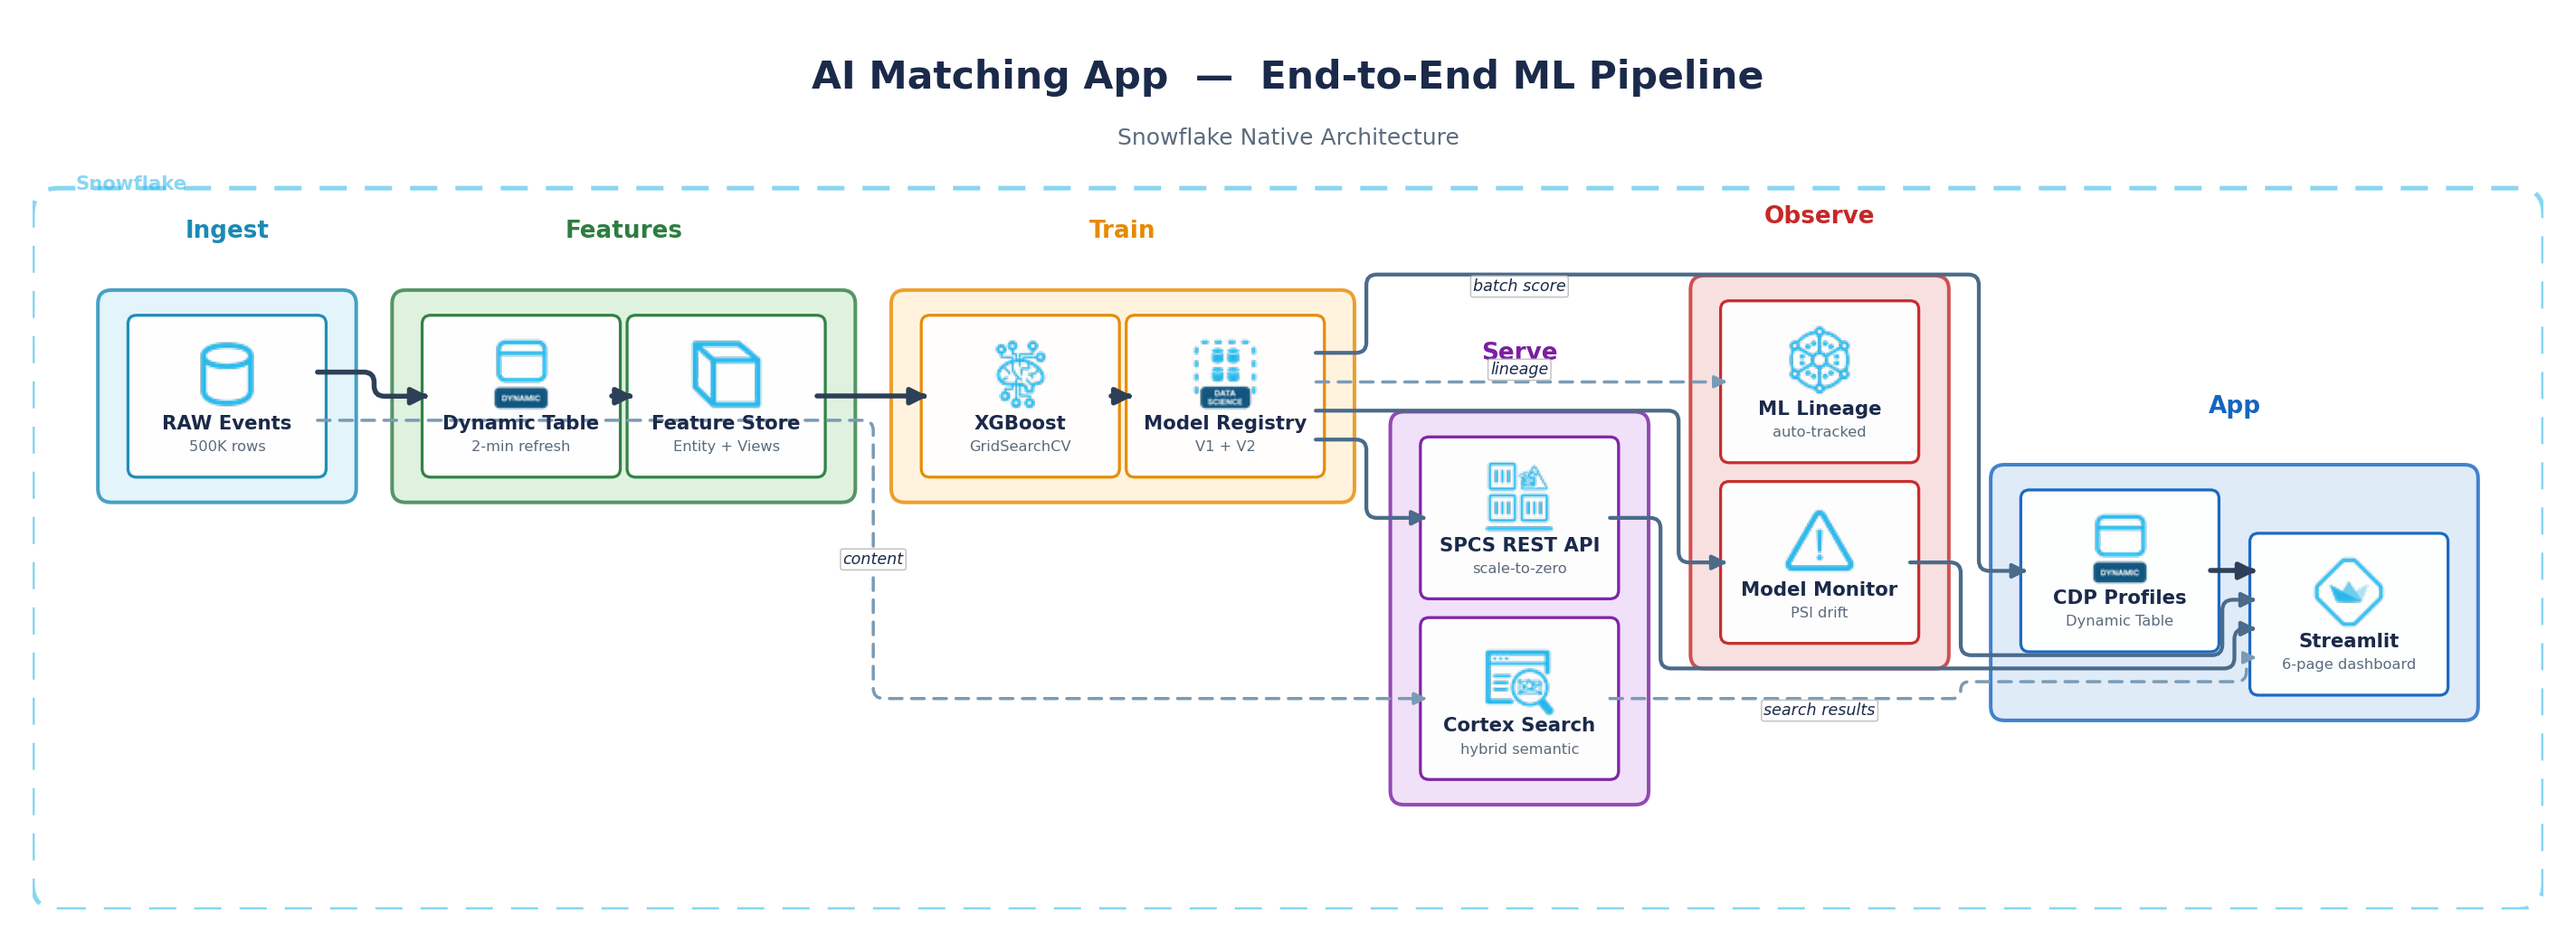
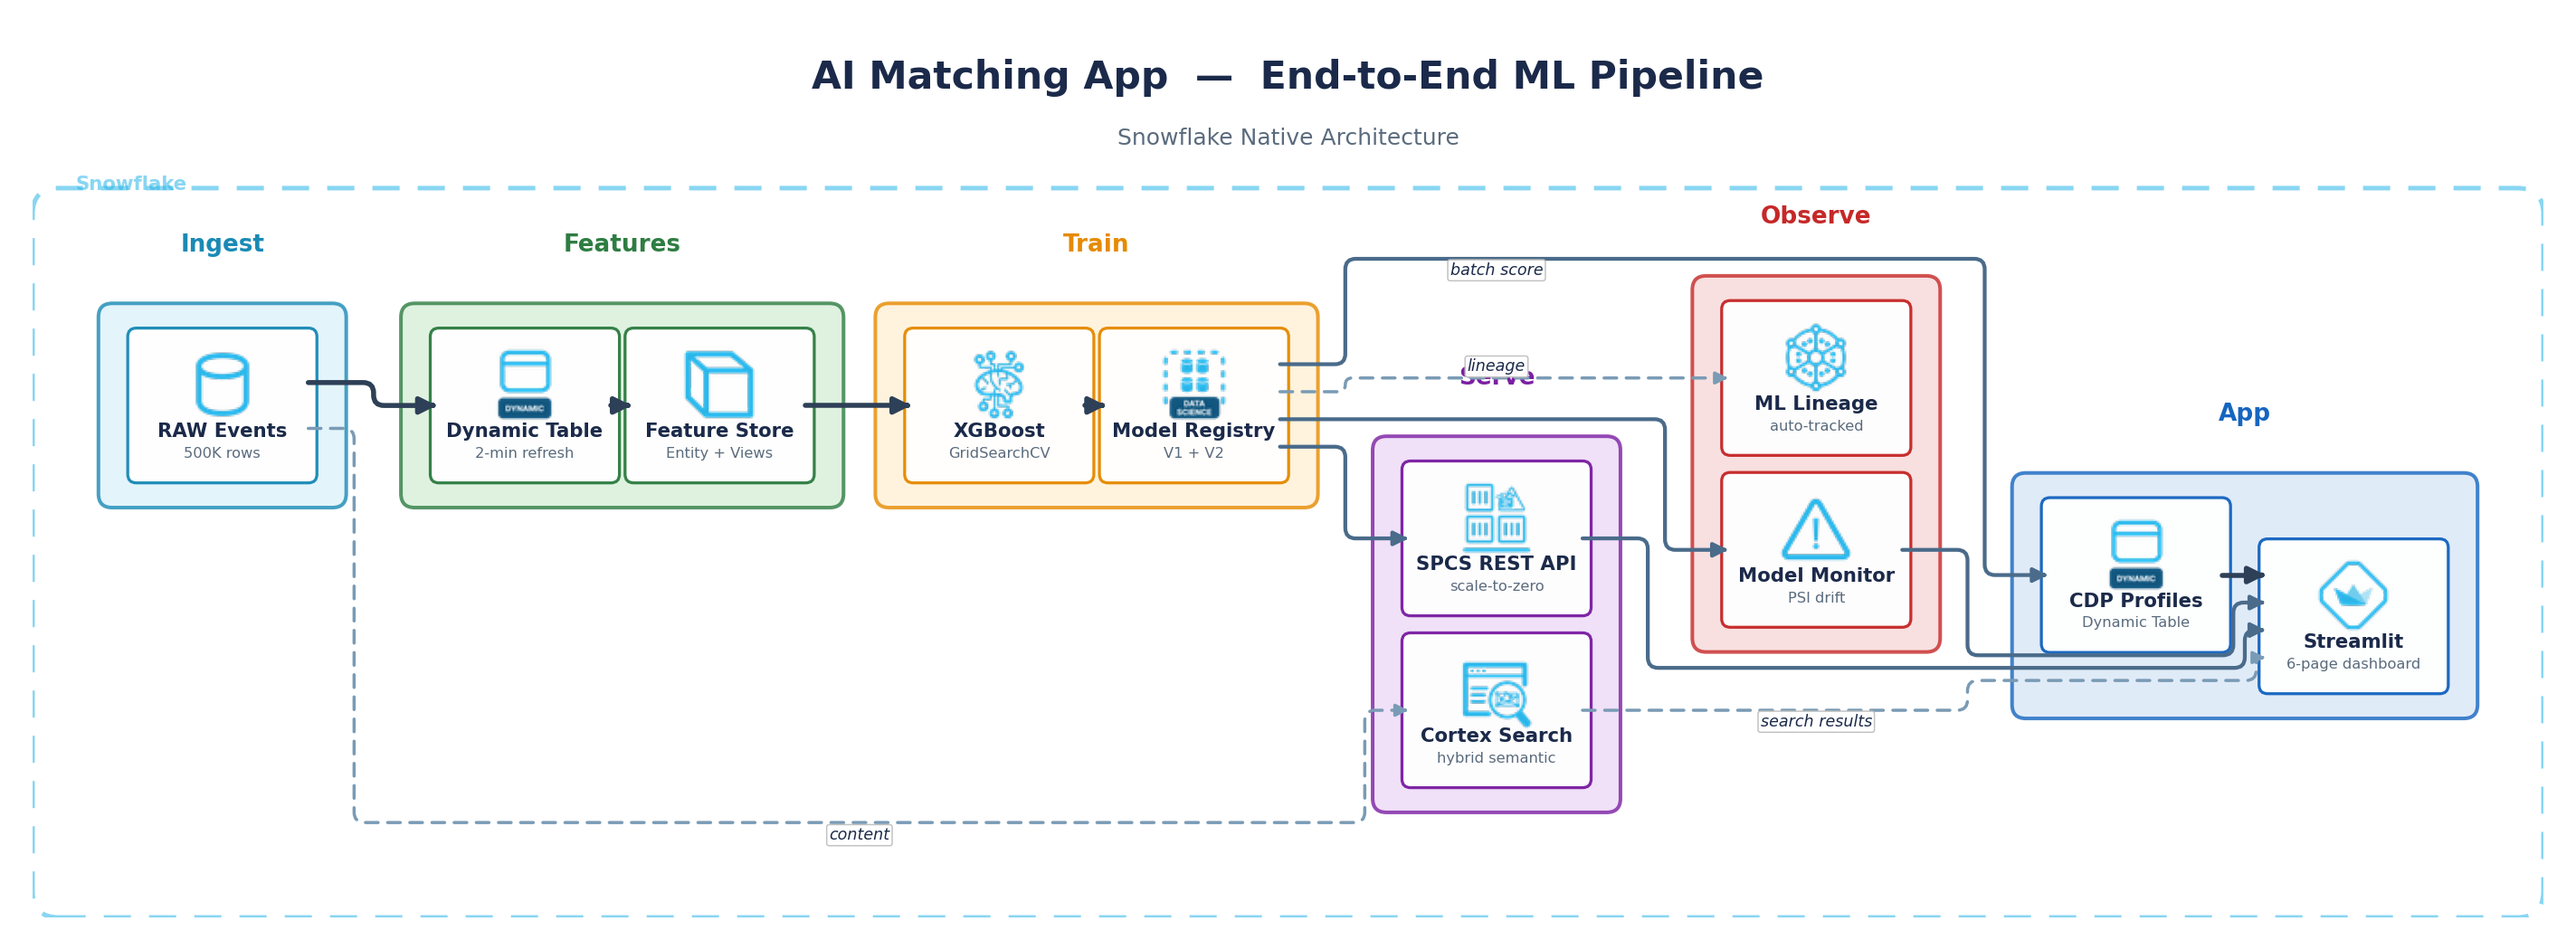
fix(diagram): route long-span edges below groups and increase edge spacing
Fixes two edge routing issues: (1) RAW Events→Cortex Search dashed edge
no longer crosses intermediate nodes — long-span edges are now routed
below all groups via a 4-bend-point path. (2) Increased ELK spacing
parameters (edgeNode: 35, edgeNodeBetweenLayers: 40) for better
edge-to-boundary clearance on batch score and SPCS/Monitor edges.

.... Generated with [Cortex Code](https://docs.snowflake.com/en/user-guide/cortex-code/cortex-code)

diff --git a/site/sfguides/src/build-an-ai-matching-app-with-snowflake-ml/assets/generate_arch_diagram.py b/site/sfguides/src/build-an-ai-matching-app-with-snowflake-ml/assets/generate_arch_diagram.py
@@ -1,7 +1,7 @@
 #!/usr/bin/env python3
 """
 Generate architecture diagram using ELK for layout + matplotlib for rendering.
-v14 — ELK-based orthogonal routing with Snowflake-branded visual style.
+v15 — Fix edge crossing and edge-boundary spacing issues.
 
 Pipeline:  Graph spec → ELK (Node.js) → positioned JSON → matplotlib PNG
 """
@@ -152,9 +152,9 @@ def build_elk_graph():
             'elk.layered.spacing.nodeNodeBetweenLayers': '60',
             'elk.spacing.nodeNode': '30',
             'elk.layered.spacing.edgeEdgeBetweenLayers': '15',
-            'elk.layered.spacing.edgeNodeBetweenLayers': '25',
-            'elk.spacing.edgeNode': '20',
-            'elk.spacing.edgeEdge': '12',
+            'elk.layered.spacing.edgeNodeBetweenLayers': '40',
+            'elk.spacing.edgeNode': '35',
+            'elk.spacing.edgeEdge': '15',
             'elk.layered.nodePlacement.strategy': 'NETWORK_SIMPLEX',
             'elk.layered.crossingMinimization.strategy': 'LAYER_SWEEP',
             'elk.layered.crossingMinimization.semiInteractive': 'true',
@@ -432,6 +432,14 @@ def main():
 
             col0_node_ids = {ch['id'] for ch in col0_group.get('children', [])}
 
+            # Find the bottom Y of all groups (for routing long-span edges below)
+            max_group_bottom = 0
+            for grp in layouted['children']:
+                bottom = grp.get('y', 0) + grp.get('height', 0)
+                if bottom > max_group_bottom:
+                    max_group_bottom = bottom
+            below_y = max_group_bottom + 30  # 30px margin below all groups
+
             # Reconstruct edges connected to col_0 with orthogonal routing
             for edge in layouted.get('edges', []):
                 src = edge['sources'][0]
@@ -454,16 +462,27 @@ def main():
                     new_end_y = old_end['y'] - dy
                     new_end = {'x': old_end['x'], 'y': new_end_y}
 
-                # Build orthogonal route: horizontal out, vertical transition, horizontal in
-                # Use midpoint X between start and end for the vertical segment
-                mid_x = (new_start['x'] + new_end['x']) / 2
                 y_diff = abs(new_start['y'] - new_end['y'])
 
                 if y_diff < 10:
                     # Nearly horizontal — straight line, no bends needed
                     new_bends = []
+                elif abs(new_end['x'] - new_start['x']) > 600:
+                    # Long-span edge (crosses multiple columns) — route BELOW
+                    # all groups to avoid crossing over intermediate nodes.
+                    # Path: right from start → down to below_y → right to
+                    # target X → up to target Y
+                    exit_x = new_start['x'] + 40  # short horizontal stub out
+                    enter_x = new_end['x'] - 40   # short horizontal stub in
+                    new_bends = [
+                        {'x': exit_x,  'y': new_start['y']},
+                        {'x': exit_x,  'y': below_y},
+                        {'x': enter_x, 'y': below_y},
+                        {'x': enter_x, 'y': new_end['y']},
+                    ]
                 else:
-                    # Orthogonal L-route or Z-route
+                    # Short-span edge — Z-route with midpoint vertical segment
+                    mid_x = (new_start['x'] + new_end['x']) / 2
                     new_bends = [
                         {'x': mid_x, 'y': new_start['y']},
                         {'x': mid_x, 'y': new_end['y']},
@@ -476,8 +495,16 @@ def main():
                 # Reposition edge labels at midpoint of new route
                 for lbl in edge.get('labels', []):
                     if 'y' in lbl:
-                        lbl['x'] = mid_x - lbl.get('width', 0) / 2
-                        lbl['y'] = (new_start['y'] + new_end['y']) / 2 - lbl.get('height', 0) / 2
+                        # Place label on the longest horizontal segment
+                        if len(new_bends) >= 3:
+                            # Long-span: label on bottom horizontal segment
+                            seg_mid_x = (new_bends[1]['x'] + new_bends[2]['x']) / 2
+                            lbl['x'] = seg_mid_x - lbl.get('width', 0) / 2
+                            lbl['y'] = below_y + 4
+                        else:
+                            mid_x = (new_start['x'] + new_end['x']) / 2
+                            lbl['x'] = mid_x - lbl.get('width', 0) / 2
+                            lbl['y'] = (new_start['y'] + new_end['y']) / 2 - lbl.get('height', 0) / 2
 
     graph_w = layouted.get('width', 2500)
     graph_h = layouted.get('height', 600)
